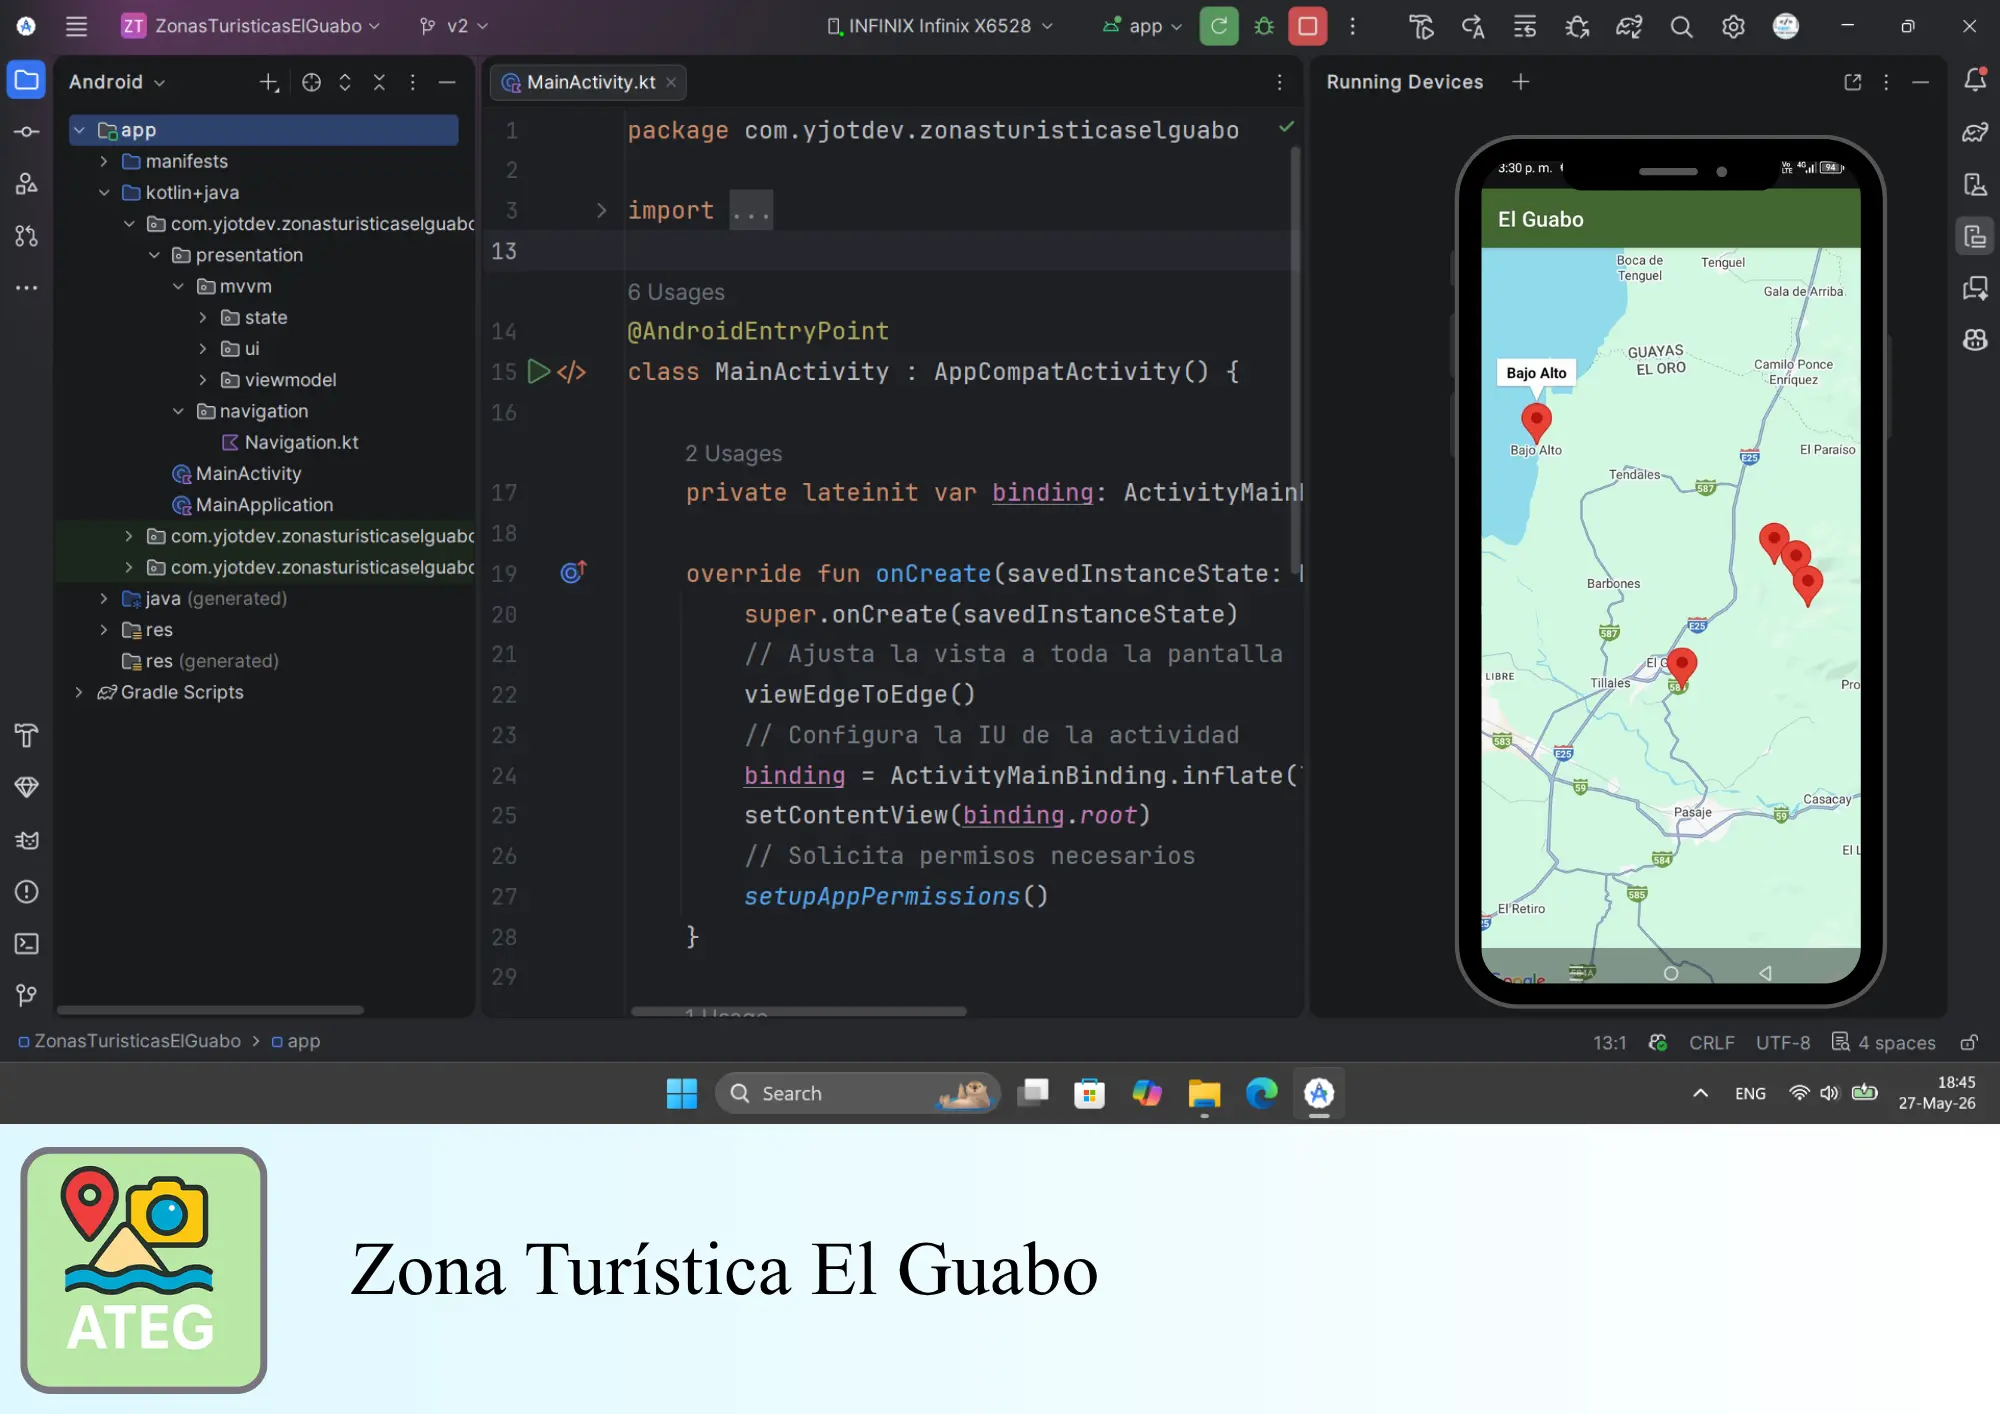
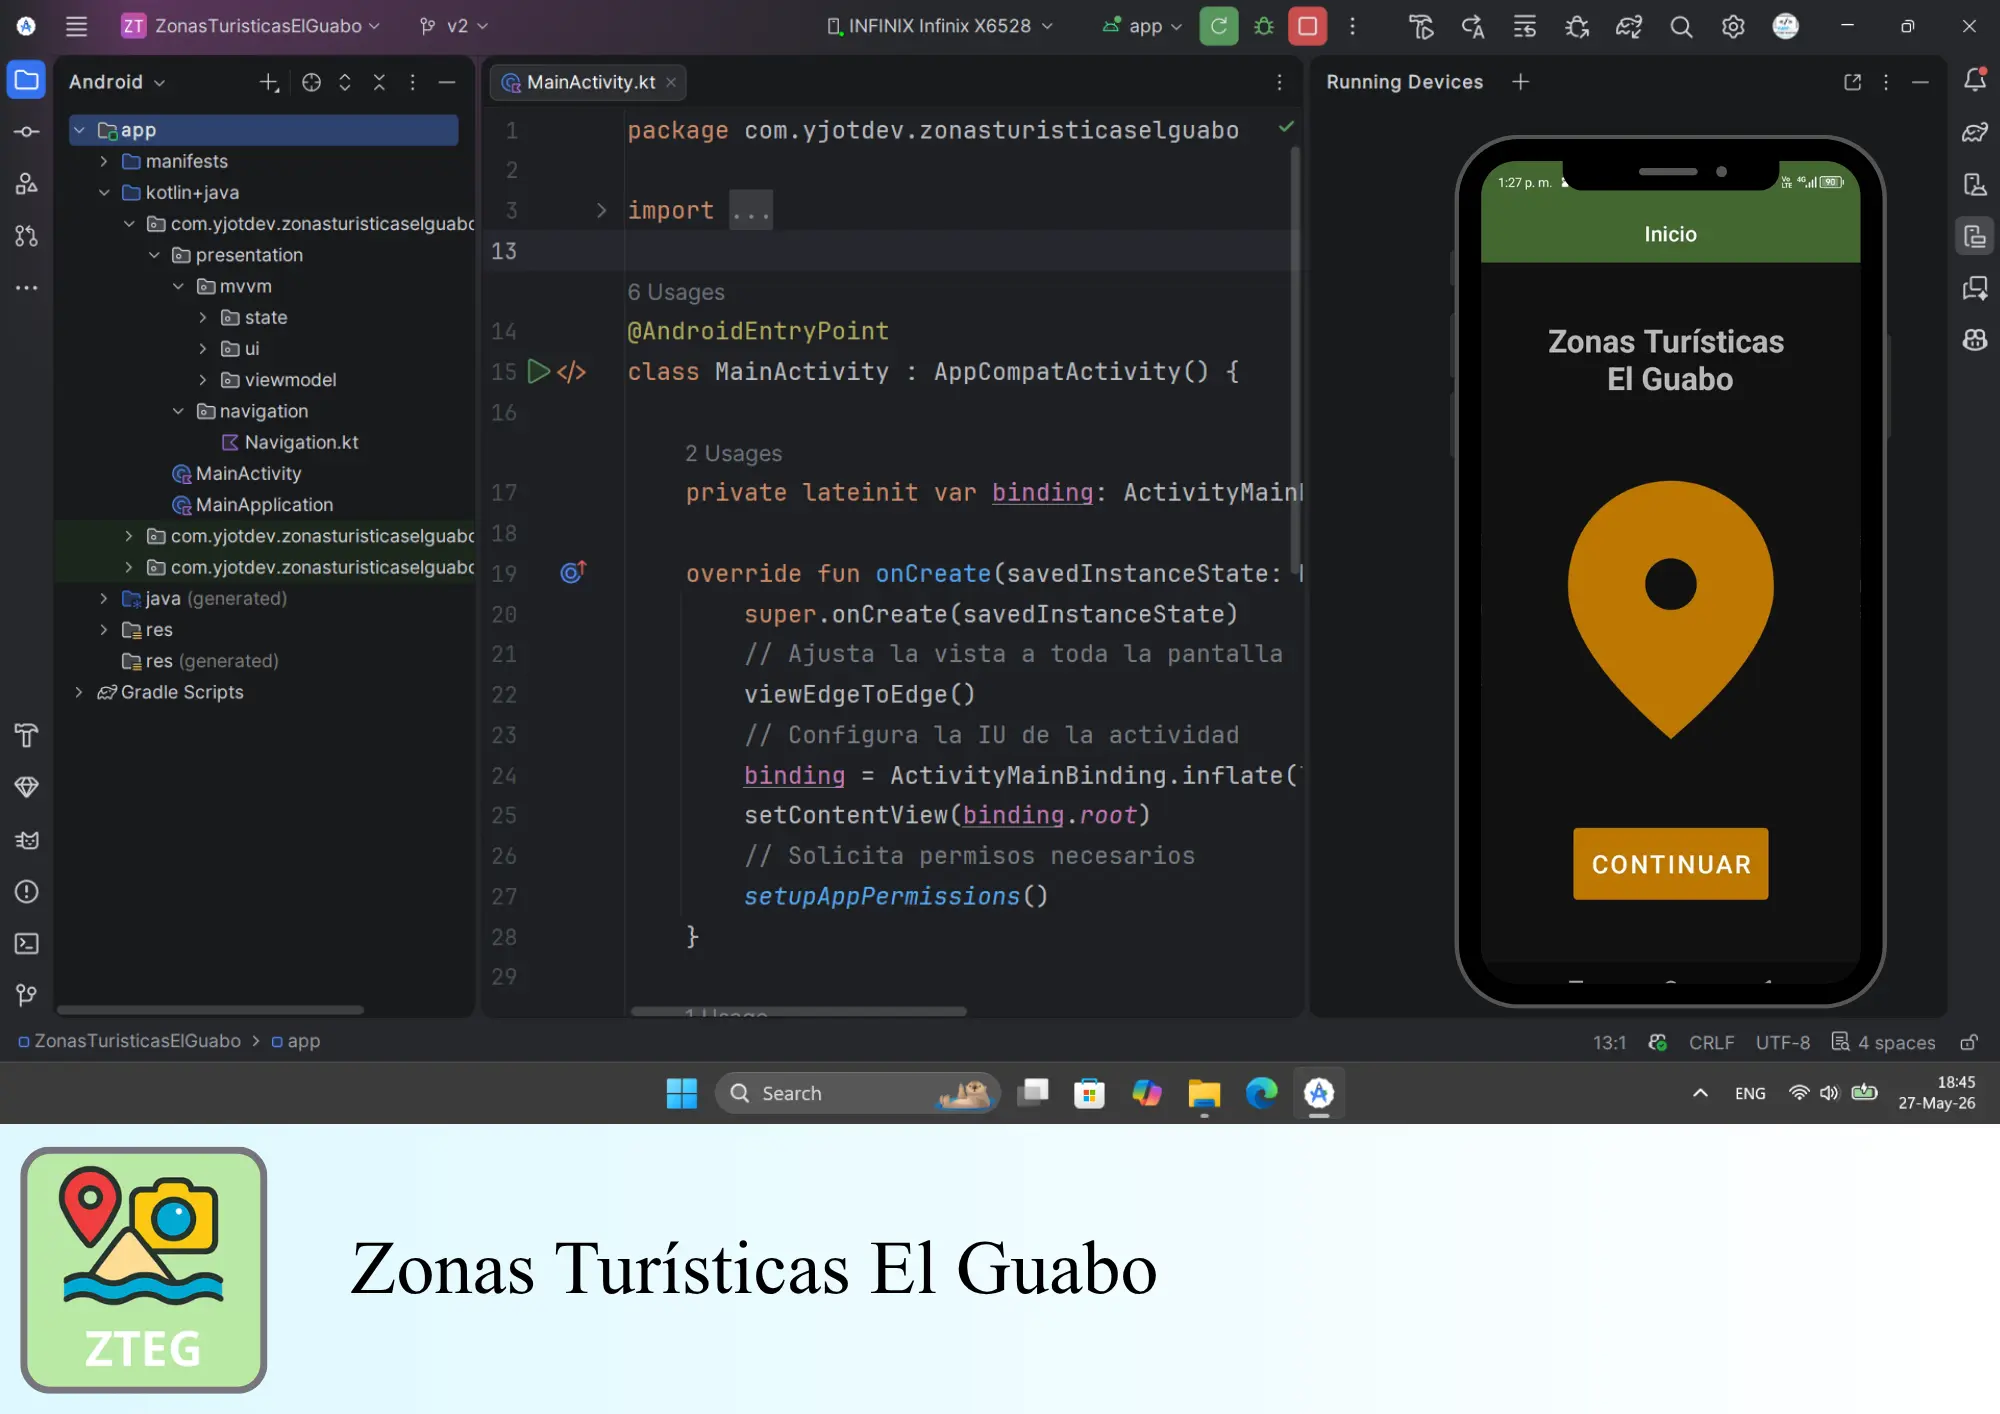
Create sitemap.xml and design update

Changed region(s): [[0.713, 0.0934, 0.93, 0.7157], [0.248, 0.8713, 0.589, 0.9335], [0.031, 0.8091, 0.124, 0.9646]]

diff --git a/src/projects.html b/src/projects.html
@@ -81,25 +81,22 @@
             <a href="app-pm.html">
               <img class="proyectos-img" src="../assets/projects/Android6.webp" alt="Reproductor de música">
             </a>
-            <h3>Reproductor de música</h3>
+            <h3>Player Music</h3>
             <ul>
               <li><strong>Patrón de diseño arquitectónico:</strong> MVVM + Clean Architecture</li>
               <li><strong>Base de datos:</strong> Room (Local)</li>
               <li><strong>Inyección de dependencias:</strong> Hilt</li>
               <li><strong>Descripción:</strong> Esta app es un reproductor de música local, obtiene la música guardada
-                de
-                la
-                memoria interna y SD del dispositivo, ofrece la opción de agregar y eliminar música de una playlist, así
-                como crear o quitar una playlist, puede reproducir música en aleatorio, o en secuencia, así como repetir
-                la
-                misma música o una única vez.</li>
+                de la memoria interna y SD del dispositivo, ofrece la opción de agregar y eliminar música de una playlist, 
+                así como crear o quitar una playlist, puede reproducir música en aleatorio, o en secuencia, ademas de repetir
+                la misma música o una única vez.</li>
             </ul>
           </article>
           <article class="proyecto">
             <a href="app-emp.html">
               <img class="proyectos-img" src="../assets/projects/Android7.webp" alt="Gamificación sobre emprendimiento">
             </a>
-            <h3>Gamificación sobre emprendimiento</h3>
+            <h3>Emprendimiento Primaria</h3>
             <ul>
               <li><strong>Patrón de diseño arquitectónico:</strong> MVVM + Clean Architecture</li>
               <li><strong>Base de datos:</strong> MySQL</li>
@@ -138,10 +135,10 @@
       <div class="contenedor">
         <div class="tabla-2">
           <article class="proyecto">
-            <a href="app-ateg.html">
-              <img class="proyectos-img" src="../assets/projects/Android1.webp" alt="Mapa turístico de El Guabo">
+            <a href="app-zteg.html">
+              <img class="proyectos-img" src="../assets/projects/Android1.webp" alt="Zonas turísticas El Guabo">
             </a>
-            <h3>Mapa turístico de El Guabo</h3>
+            <h3>Zonas Turísticas El Guabo</h3>
             <ul>
               <li><strong>Patrón de diseño arquitectónico:</strong> MVVM</li>
               <li><strong>Inyección de dependencias:</strong> Hilt</li>
@@ -158,7 +155,7 @@
             <a href="app-cp.html">
               <img class="proyectos-img" src="../assets/projects/Android2.webp" alt="Clasificador de raza de peces">
             </a>
-            <h3>Clasificador de raza de peces</h3>
+            <h3>Clasificar Peces</h3>
             <ul>
               <li><strong>Patrón de diseño arquitectónico:</strong> MVVM + Clean Architecture</li>
               <li><strong>API:</strong> Node</li>
@@ -174,7 +171,7 @@
             <a href="app-cdm.html">
               <img class="proyectos-img" src="../assets/projects/Android3.webp" alt="Calculadora de materiales">
             </a>
-            <h3>Calculadora de materiales</h3>
+            <h3>Calculador De Materiales</h3>
             <ul>
               <li><strong>Patrón de diseño arquitectónico:</strong> MVVM</li>
               <li><strong>Inyección de dependencias:</strong> Hilt</li>
@@ -217,7 +214,7 @@
               <img class="proyectos-img" src="../assets/projects/Xamarin1.webp"
                 alt="Lector de la Constitución del Ecuador">
             </a>
-            <h3>Lector de la Constitución del Ecuador</h3>
+            <h3>Constitución del Ecuador</h3>
             <ul>
               <li><strong>Patrón de diseño arquitectónico:</strong> MVC</li>
               <li><strong>Base de datos:</strong> MySQL</li>
@@ -232,7 +229,7 @@
             <a href="https://github.com/yjot-dev/Rep-RedCarWash/tree/main" target="_blank">
               <img class="proyectos-img" src="../assets/projects/Xamarin2.webp" alt="Gestor de lavado de vehículos">
             </a>
-            <h3>Gestor de lavado de vehículos</h3>
+            <h3>Red Car Wash</h3>
             <ul>
               <li><strong>Patrón de diseño arquitectónico:</strong> MVC</li>
               <li><strong>Base de datos:</strong> MySQL</li>
@@ -247,7 +244,7 @@
               <img class="proyectos-img" src="../assets/projects/Xamarin3.webp"
                 alt="Analizador y clasificador de tonalidad del suelo">
             </a>
-            <h3>Analizador y clasificador de tonalidad del suelo</h3>
+            <h3>Detector de suelos</h3>
             <ul>
               <li><strong>Patrón de diseño arquitectónico:</strong> MVC</li>
               <li><strong>IA:</strong> Red neuronal con Keras y TensorFlow</li>
@@ -264,7 +261,7 @@
               <img class="proyectos-img" src="../assets/projects/Xamarin4.webp"
                 alt="Calculador de depreciación de un producto">
             </a>
-            <h3>Calculador de depreciación de un producto</h3>
+            <h3>Depreciation Calculator</h3>
             <ul>
               <li><strong>Patrón de diseño arquitectónico:</strong> MVC</li>
               <li><strong>Descripción:</strong> Esta app permite calcular el valor de depreciación de un objeto con base

diff --git a/src/app-zteg.html b/src/app-zteg.html
@@ -2,7 +2,7 @@
 <html lang="es">
 
 <head>
-  <title>YJOT DEV | APP TURISMO EL GUABO</title>
+  <title>YJOT DEV | ZONAS TURISTICAS EL GUABO</title>
   <meta charset="UTF-8">
   <meta name="viewport" content="width=device-width, initial-scale=1.0">
   <link rel="icon" type="image/webp" href="../assets/icons/logo.webp">
@@ -42,21 +42,21 @@
     </nav>
 
     <div class="portada">
-      <img id="cover-image" src="../assets/apps/ateg.webp" alt="Imagen de portada">
+      <img id="cover-image" src="../assets/apps/zteg.webp" alt="Imagen de portada">
     </div>
   </header>
 
   <div id="traductor" style="display:none;"></div>
 
   <main>
-    <h2 class="titulo">APP TURISMO EL GUABO</h2>
+    <h2 class="titulo">ZONAS TURISTICAS EL GUABO</h2>
 
     <section>
       <h3 class="subtitulo">Descripción general</h3>
       <div class="contenedor">
         <article class="perfil">
           <p>
-            ATEG es una aplicación móvil diseñada para explorar los principales centros turísticos de la
+            ZTEG es una aplicación móvil diseñada para explorar los principales centros turísticos de la
             ciudad de El Guabo, Ecuador. El objetivo principal es ofrecer a los usuarios una herramienta
             intuitiva y directa para descubrir y obtener información sobre los puntos de interés locales,
             utilizando la API de Google Maps como base para una experiencia de navegación interactiva.

diff --git a/README.md b/README.md
@@ -1,8 +1,83 @@
-# Portafolio de YJOT-DEV
+# Portafolio web de YJOT-DEV
 
-Bienvenid@, este es mi portafolio como desarrollador Android.  
-Aquí encontrarás mis aplicaciones móviles, cada una documentada y disponible en Google Play.
+Bienvenid@ a este repositorio. Este proyecto consiste en un portafolio web personal elaborado para presentar mi perfil profesional como desarrollador Android y Full Stack, junto con mis aplicaciones, proyectos, servicios y habilidades técnicas.
 
-👉 Puedes visitar mi sitio web [aqui](https://yjot-dev.github.io)
+## ¿Qué es este proyecto?
 
-👉 Puedes visitar mi Google Play [aqui](https://play.google.com/store/apps/dev?id=5295053134681189450)
+Este sitio web funciona como una vitrina digital de mi experiencia profesional. Su objetivo es mostrar de forma clara y profesional:
+
+- Mi perfil y trayectoria como desarrollador
+- Los proyectos móviles que he desarrollado
+- Los servicios que ofrezco
+- Mis tecnologías y herramientas favoritas
+- Un punto de contacto para clientes, reclutadores o colaboradores
+
+## Características principales
+
+- Diseño moderno y responsive
+- Sección de presentación personal y experiencia
+- Páginas dedicadas a proyectos y servicios
+- Estructura organizada y fácil de mantener
+- Uso de plantillas reutilizables para mejorar la escalabilidad del proyecto
+- Preparado para publicarse en GitHub Pages
+
+## Tecnologías utilizadas
+
+- HTML5
+- CSS3
+- JavaScript
+- Node.js para la automatización de construcción de páginas
+- GitHub Pages para el despliegue
+
+## Stack técnico y enfoque profesional
+
+Además de la web, este portafolio está alineado con mi perfil como desarrollador Android, destacando tecnologías como:
+
+- Kotlin
+- Jetpack Compose
+- MVVM
+- Clean Architecture
+- Hilt
+- MySQL
+- Node.js
+- Pruebas unitarias e instrumentales
+- Integración de IA en flujos de desarrollo
+
+## Estructura del proyecto
+
+```text
+assets/        # Imágenes, iconos y recursos visuales
+css/            # Estilos del sitio web
+js/             # Lógica de interacción del frontend
+src/            # Páginas del portafolio y vistas de proyectos
+templates/      # Plantillas reutilizables (header y footer)
+index.html      # Página principal del sitio
+```
+
+## Requisitos previos
+
+Para visualizar o modificar este proyecto necesitas:
+
+- Un navegador moderno
+- Git
+
+## Buenas prácticas aplicadas
+
+Este proyecto sigue principios recomendados en desarrollo de software, entre ellos:
+
+- Separación clara entre contenido, estilos y lógica
+- Estructura modular y mantenible
+- Reutilización de componentes mediante plantillas
+- Documentación básica para facilitar la colaboración y el mantenimiento
+- Automatización de tareas de construcción para reducir errores manuales
+
+## Contacto
+
+Puedes visitar el sitio web aquí:
+
+- Sitio web: https://yjot-dev.github.io
+- Google Play: https://play.google.com/store/apps/dev?id=5295053134681189450
+
+## Licencia
+
+Este proyecto es personal y no tiene una licencia pública definida aún.
